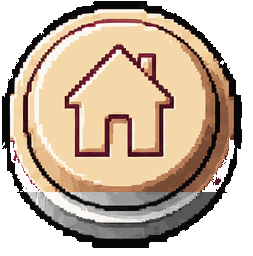
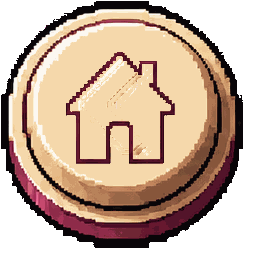
fix(ios): v0.8.99 one drawing
0.8.98 made the code one pass; this makes the art one drawing. The home
cap sprite is generated from the back cap at import: back body verbatim,
chevron inpainted out core-and-shoulder, the house glyph transplanted
core-only at the fitted centre. There is no home-specific paint left in
the pipeline -- a rendering artifact on HOME would now have to appear
identically on BACK.

Changed region(s): [[0.0, 0.0, 0.9684, 0.9688], [0.4427, 0.0312, 0.498, 0.0625]]

diff --git a/shared/data/firmware.ts b/shared/data/firmware.ts
@@ -61,11 +61,23 @@ import type { FirmwareRelease } from '../types';
  * each batch a name, which is the file's entire job.
  */
 const CURRENT: FirmwareRelease = {
+  version: "0.8.99",
+  date: "2026-08-10",
+  headline: "ONE DRAWING",
+  // The terse register, kept. 0.8.98 made the code one pass; this makes the
+  // art one drawing — there is nothing home-specific left to disagree.
+  notes: [
+    "HOME's cap is BACK's drawing now, with the house incised in place of the chevron -- same face, same bezel, same everything, on every shell.",
+    "446 entries: 177 grapes, 124 regions, 33 styles, 106 flavours, 26 countries.",
+  ],
+};
+
+const PREVIOUS_0898: FirmwareRelease = {
   version: "0.8.98",
   date: "2026-08-10",
   headline: "ONE BUTTON PASS",
-  // The terse register, kept. The end of §A: not "resolves to the same
-  // colour" but "is the same code" — the buttons cannot be told apart.
+  // The end of §A in code: not "resolves to the same colour" but "is the
+  // same code" — the buttons cannot be told apart.
   notes: [
     "HOME is drawn by the exact pass the other caps wear -- no ramp, no lip, no special case -- and a lit console Home is just a brighter cap, on every shell.",
     "The walkthrough's diagram stops lighting HOME from the accent -- the last accent-read is gone.",
@@ -170,6 +182,7 @@ const PREVIOUS_0892: FirmwareRelease = {
 };
 
 const PREVIOUS: FirmwareRelease[] = [
+  PREVIOUS_0898,
   PREVIOUS_0897,
   PREVIOUS_0896,
   PREVIOUS_0895,

diff --git a/scripts/import-footer-art.py b/scripts/import-footer-art.py
@@ -220,101 +220,188 @@ def strip_key_shadow(img):
     return img, cleared
 
 
-# --- The home cap's bottom lip (0.8.92 item 3; regrafted 0.8.96/0.8.98) ------
+# --- Rebuilding the home cap from back's drawing (0.8.99) --------------------
 #
-# Where the graft band starts, as a fraction of the sprite height. The incised
-# house glyph bottoms out around 0.72h, so 0.75 clears it with margin — and it
-# starts *above* the drawing's own face-to-skirt transition (~0.78h), so the
-# seam blend runs face-into-face, where the donors and home agree within a few
-# hundredths, and the entire visible transition into the bottom bezel is the
-# donors' own paint. (Untied from `ChassisCapLoader.lipBandTop` in 0.8.98: the
-# runtime lip ink is no longer passed for any cap, so the only band that
-# matters is this one.)
-LIP_BAND_TOP = 0.75
+# The runtime's glyph-detection constants, in source-pixel terms — the same
+# bands `ChassisCapLoader.fitCap` uses, so what this transplants is exactly
+# what the re-ink will treat as the incised symbol.
+GLYPH_VALUE_CEILING = 0.60 * 255
+GLYPH_VALUE_FLOOR = 0.06 * 255
+GLYPH_INNER_REACH = 0.20
+GLYPH_OUTER_LIMIT = 0.78
+# How far the *inpaint* mask grows past the chevron's dark core, in pixels.
+# The groove is drawn with an anti-aliased shoulder — mid-values above the
+# detection ceiling — and an inpaint that removes only the core leaves that
+# shoulder behind as a ghost chevron in the face. Three pixels takes the
+# shoulder; the house is stamped core-only, so no foreign face paint rides
+# along with it.
+INPAINT_DILATE = 3
 
 
-# The seam: how many rows at the band's top blend home's own paint into the
-# donors' rather than switching in one row. Measured need: home's lit face
-# runs ~0.9 in value where the donors' skirt top runs ~0.6, and a one-row
-# switch printed that difference as a hard line straight across the cap —
-# loudest on the dark liveries, whose `litFloor` compression stretches value
-# differences. Ten rows turns the step into a moulding gradient.
-LIP_SEAM_ROWS = 10
-
-
-def graft_home_skirt(img, donors):
-    """Rebuild `home`'s skirt band as its siblings' — silhouette and shading
-    both (0.8.96, replacing 0.8.92's `lift_home_lip`).
-
-    **Why the lift had to go, and why a value-only graft after it was still
-    not enough.** 0.8.92 lifted near-black pixels to a synthetic ramp;
-    measured on what it shipped, the band still read wrong, and re-measuring
-    found the reason is *material*, not colour: below y~0.87h the home
-    drawing's skirt is a thin wall — 21 opaque pixels across a row where
-    `back` and `user` carry ~120 — so however those pixels are painted, the
-    cap's bottom bezel is mostly missing and the button reads as cut off
-    against its neighbours on every colored shell. Three releases of
-    colour-side fixes were correct and could not touch this, because absent
-    pixels take no ink.
-
-    So the band is adopted from the sibling drawings wholesale: for every
-    band pixel, alpha comes from `back`'s silhouette (centroid-aligned) and
-    value comes from the median of the donors' pixels at the same position —
-    which carries their moulded mid-tones *and* their proper cel outline
-    down and around the bottom edge. Written as neutral grey: hue and
-    saturation are replaced by the runtime re-ink anyway, value is the
-    channel it preserves. After this the four caps share one bottom bezel by
-    construction, and the seam at the band top is invisible because the
-    donors' values at that height already match home's (measured medians
-    0.60 vs 0.60 at y=199).
-
-    The house glyph never reaches the band — it bottoms out at ~0.72h against
-    the band's 0.78h — so nothing of home's own drawing is lost but the
-    too-thin wall this replaces.
-
-    **No registration shift.** The four caps are drawn on one canvas at one
-    position — silhouettes agree within a pixel — so donors are sampled at
-    the same (x, y). A first cut aligned by opaque centroid instead; the
-    glyphs' differing mass makes the centroids honestly different anchors,
-    and the rounded shift resampled the donors a few rows deep, which pulled
-    their skirt up the cap and printed the seam it was meant to hide.
-    """
+def _fit(img):
+    """Largest opaque component, its centroid, median radius and glyph mask —
+    a pure-PIL port of the runtime's `fitCap`, so both ends of the pipeline
+    agree on what a cap and its symbol are."""
     px = img.load()
     w, h = img.size
 
-    donor_data = [(d.load(), d.size) for d in donors]
+    def neighbours(x, y):
+        if x > 0:
+            yield x - 1, y
+        if x < w - 1:
+            yield x + 1, y
+        if y > 0:
+            yield x, y - 1
+        if y < h - 1:
+            yield x, y + 1
 
-    y0 = int(h * LIP_BAND_TOP)
-    grafted = 0
-    for y in range(y0, h):
-        # The seam blend: home's own paint fades into the donors' over the
-        # band's first rows, so the transition is moulding, not a line.
-        t = min((y - y0) / LIP_SEAM_ROWS, 1.0)
-        for x in range(w):
-            samples = []
-            alpha = 0
-            for p, (dw, dh) in donor_data:
-                if x < dw and y < dh:
-                    r, g, b, a = p[x, y]
-                    if a > 0:
-                        samples.append(max(r, g, b))
-                        alpha = max(alpha, a)
-            hr, hg, hb, ha = px[x, y]
-            if not samples:
-                if ha != 0 and t >= 1.0:
-                    px[x, y] = (0, 0, 0, 0)
-                    grafted += 1
+    # Largest 4-connected opaque region.
+    seen = bytearray(w * h)
+    best = set()
+    for sy in range(h):
+        for sx in range(w):
+            if seen[sy * w + sx] or px[sx, sy][3] == 0:
                 continue
-            samples.sort()
-            v = samples[len(samples) // 2]
-            if ha > 0 and t < 1.0:
-                v = int(round(max(hr, hg, hb) * (1 - t) + v * t))
-                alpha = max(alpha, ha)
-            out = (v, v, v, alpha)
-            if px[x, y] != out:
-                grafted += 1
-            px[x, y] = out
-    return img, grafted
+            region = []
+            stack = [(sx, sy)]
+            seen[sy * w + sx] = 1
+            while stack:
+                x, y = stack.pop()
+                region.append((x, y))
+                for nx, ny in neighbours(x, y):
+                    if not seen[ny * w + nx] and px[nx, ny][3] > 0:
+                        seen[ny * w + nx] = 1
+                        stack.append((nx, ny))
+            if len(region) > len(best):
+                best = set(region)
+
+    cx = sum(p[0] for p in best) / len(best)
+    cy = sum(p[1] for p in best) / len(best)
+
+    import math
+    radii = []
+    limit = float(max(w, h))
+    for i in range(360):
+        t = i * 2 * math.pi / 360
+        dx, dy = math.cos(t), math.sin(t)
+        r, last = 0.0, 0.0
+        while r < limit:
+            x, y = int(round(cx + r * dx)), int(round(cy + r * dy))
+            if 0 <= x < w and 0 <= y < h and (x, y) in best:
+                last = r
+            r += 0.5
+        radii.append(last)
+    radii.sort()
+    radius = max(radii[180], 1.0)
+
+    # Dark regions that start inside the inner reach and stay inside the
+    # outer limit are the incised symbol.
+    def value(x, y):
+        r, g, b, a = px[x, y]
+        return max(r, g, b)
+
+    dark = {
+        (x, y) for (x, y) in best
+        if GLYPH_VALUE_FLOOR < value(x, y) < GLYPH_VALUE_CEILING
+    }
+    glyph = set()
+    visited = set()
+    for start in dark:
+        if start in visited:
+            continue
+        region = []
+        stack = [start]
+        visited.add(start)
+        min_r, max_r = float("inf"), 0.0
+        while stack:
+            x, y = stack.pop()
+            region.append((x, y))
+            d = ((x - cx) ** 2 + (y - cy) ** 2) ** 0.5 / radius
+            min_r = min(min_r, d)
+            max_r = max(max_r, d)
+            for n in neighbours(x, y):
+                if n in dark and n not in visited:
+                    visited.add(n)
+                    stack.append(n)
+        if min_r < GLYPH_INNER_REACH and max_r < GLYPH_OUTER_LIMIT:
+            glyph.update(region)
+    return best, cx, cy, radius, glyph
+
+
+def rebuild_home_from_back(home, back):
+    """Rebuild the home cap as **back's drawing with the house incised**
+    (0.8.99, replacing 0.8.92-0.8.98's band surgery).
+
+    **The end of the skirt saga.** 0.8.92 lifted the lip's black paint,
+    0.8.96 grafted the siblings' skirt values, 0.8.97 blended the graft's
+    seam, 0.8.98 widened the band — and a line survived every one of them,
+    because the home drawing differs from its siblings *above* any band a
+    patch draws: its face is painted as a lit lens, glossier and differently
+    shaded, and wherever patched paint meets original paint there is a
+    boundary to see. The only band with no seam is the whole cap.
+
+    So home is not patched any more; it is **rebuilt**. The body is `back`'s
+    drawing verbatim — face, skirt, outline, every pixel of moulded plastic —
+    with back's chevron inpainted away (each symbol pixel takes the median of
+    the face within a widening window) and home's house transplanted in at
+    the same position relative to the cap's fitted centre. Glyph masks are
+    found by the runtime's own rules, dilated `GLYPH_DILATE` px so the
+    groove's anti-aliased shoulder travels with its core. After this there is
+    no home-specific paint left to disagree with the neighbours: the four
+    caps are one drawing family by construction, and the re-ink treats the
+    transplanted house exactly as it treated the drawn one.
+    """
+    _, bcx, bcy, _, back_glyph = _fit(back)
+    _, hcx, hcy, _, home_glyph = _fit(home)
+
+    out = back.copy()
+    opx = out.load()
+    bpx = back.load()
+    hpx = home.load()
+    w, h = out.size
+    hw, hh = home.size
+
+    # Inpaint the chevron — core *and* anti-aliased shoulder, hence the
+    # dilation — each removed pixel taking the median face value in a
+    # widening window, face meaning opaque, non-symbol, and bright enough
+    # not to be the cel outline.
+    erase = set(back_glyph)
+    for _ in range(INPAINT_DILATE):
+        grown = set(erase)
+        for (x, y) in erase:
+            for nx, ny in ((x + 1, y), (x - 1, y), (x, y + 1), (x, y - 1)):
+                if 0 <= nx < w and 0 <= ny < h and bpx[nx, ny][3] > 0:
+                    grown.add((nx, ny))
+        erase = grown
+
+    for (x, y) in erase:
+        vals = []
+        reach = 4
+        while not vals and reach <= 40:
+            for dy in range(-reach, reach + 1):
+                for dx in range(-reach, reach + 1):
+                    nx, ny = x + dx, y + dy
+                    if 0 <= nx < w and 0 <= ny < h and (nx, ny) not in erase:
+                        r, g, b, a = bpx[nx, ny]
+                        if a > 0 and max(r, g, b) >= GLYPH_VALUE_CEILING:
+                            vals.append((max(r, g, b), (r, g, b)))
+            reach += 4
+        if vals:
+            vals.sort(key=lambda t: t[0])
+            _, (r, g, b) = vals[len(vals) // 2]
+            opx[x, y] = (r, g, b, 255)
+
+    # Transplant the house, core only: its own groove paint, and none of the
+    # lit face around it.
+    sx, sy = bcx - hcx, bcy - hcy
+    stamped = 0
+    for (x, y) in home_glyph:
+        tx, ty = int(round(x + sx)), int(round(y + sy))
+        if 0 <= tx < w and 0 <= ty < h and opx[tx, ty][3] > 0:
+            r, g, b, a = hpx[x, y]
+            opx[tx, ty] = (r, g, b, 255)
+            stamped += 1
+    return out, stamped
 
 
 def main():
@@ -335,11 +422,11 @@ def main():
     os.makedirs(DST, exist_ok=True)
     total_out = 0
     total_shadow = 0
-    total_grafted = 0
+    total_stamped = 0
 
-    # Two passes rather than one: `home`'s skirt takes its values *from*
-    # `back` and `user`, so every cap is background-stripped first and the
-    # graft runs over the processed set.
+    # Two passes rather than one: `home` is rebuilt *from* `back`, so every
+    # cap is background-stripped first and the rebuild runs over the
+    # processed set.
     processed = {}
     for stem in stems:
         img = strip_background(Image.open(os.path.join(src, stem + ".png")))
@@ -348,15 +435,13 @@ def main():
         total_shadow += cleared
         processed[stem] = img
 
-    # `home` alone: its skirt is painted black-under-bright where the
-    # siblings' is a moulded mid-tone — see `graft_home_skirt`. Keyed on the
-    # stem rather than measured per file, because the defect is a fact about
-    # one drawing, and a fifth cap in either style should arrive untouched
-    # until somebody measures it.
-    donors = [processed[s] for s in ("back", "user") if s in processed]
-    if "home" in processed and donors:
-        processed["home"], total_grafted = graft_home_skirt(
-            processed["home"], donors
+    # `home` alone: its drawing never matched its siblings' moulding — see
+    # `rebuild_home_from_back`. Keyed on the stem rather than measured per
+    # file, because the defect is a fact about one drawing, and a fifth cap
+    # in either style should arrive untouched until somebody measures it.
+    if "home" in processed and "back" in processed:
+        processed["home"], total_stamped = rebuild_home_from_back(
+            processed["home"], processed["back"]
         )
 
     for stem in stems:
@@ -367,7 +452,7 @@ def main():
     print(
         f"converted {len(stems)} footer caps -> {DST} ({total_out // 1024}KB), "
         f"{total_shadow} cast-shadow pixels cleared, "
-        f"{total_grafted} skirt pixels grafted on home"
+        f"home rebuilt from back with {total_stamped} house pixels stamped"
     )
 
 
